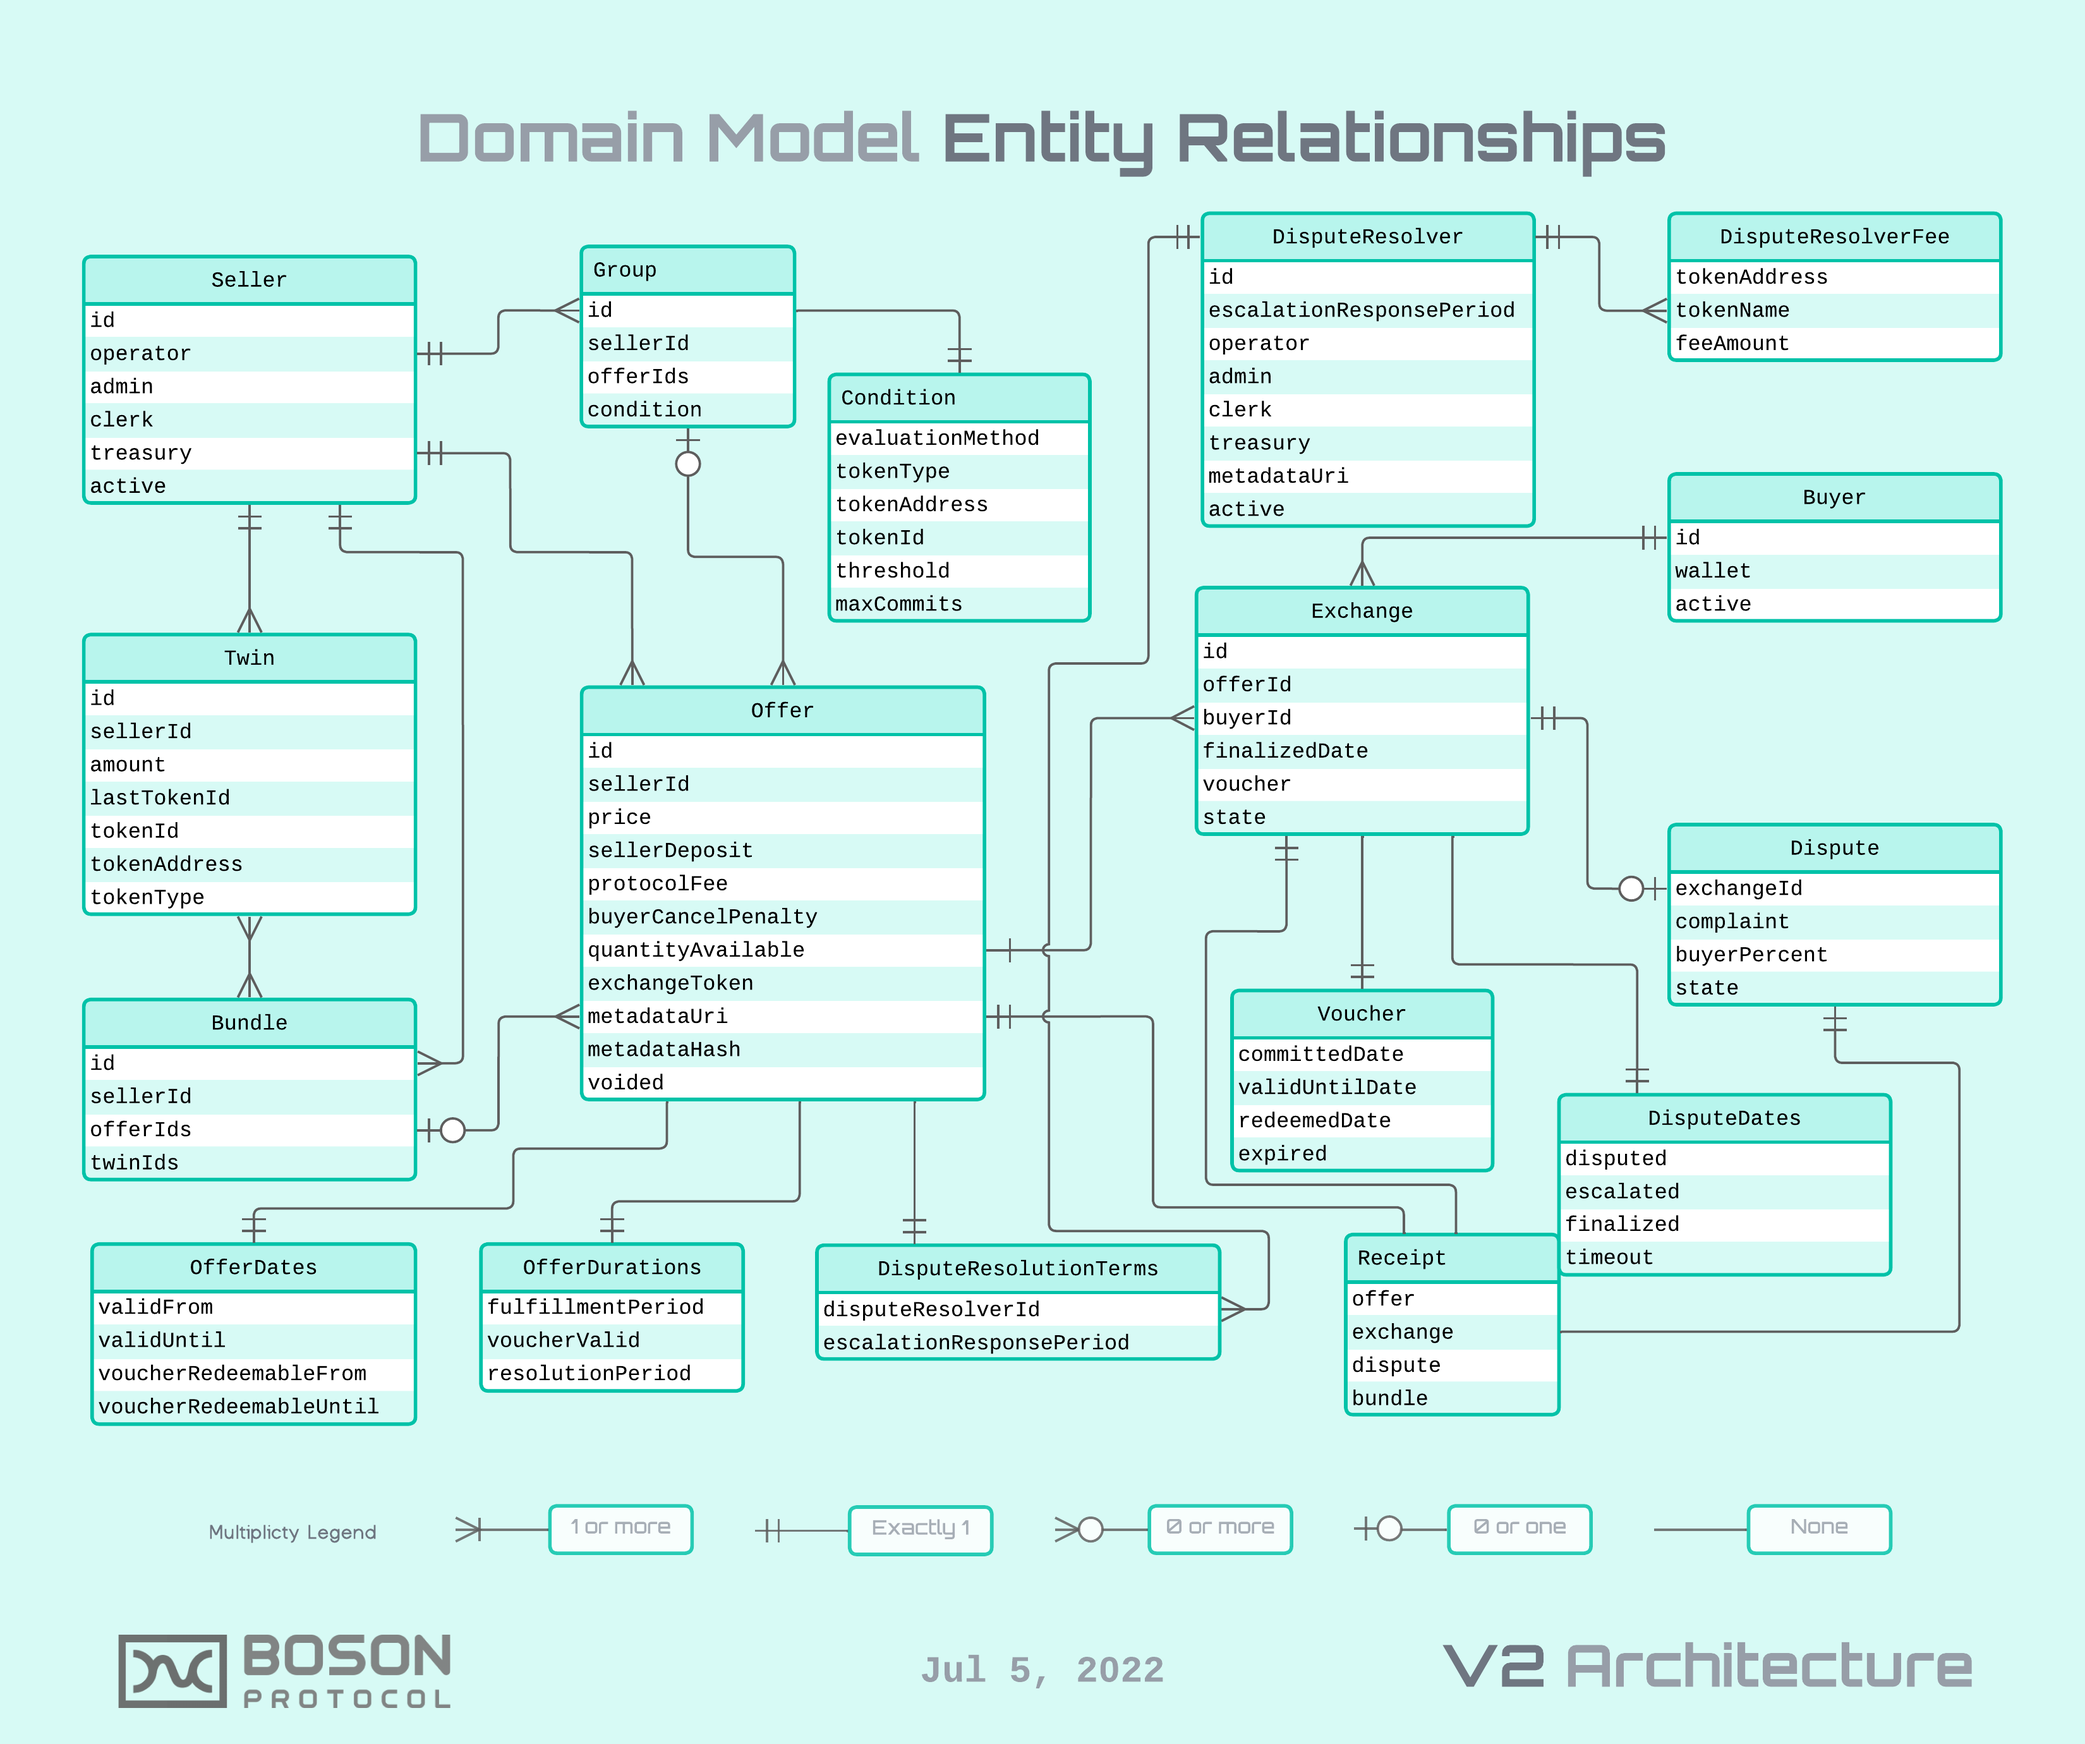
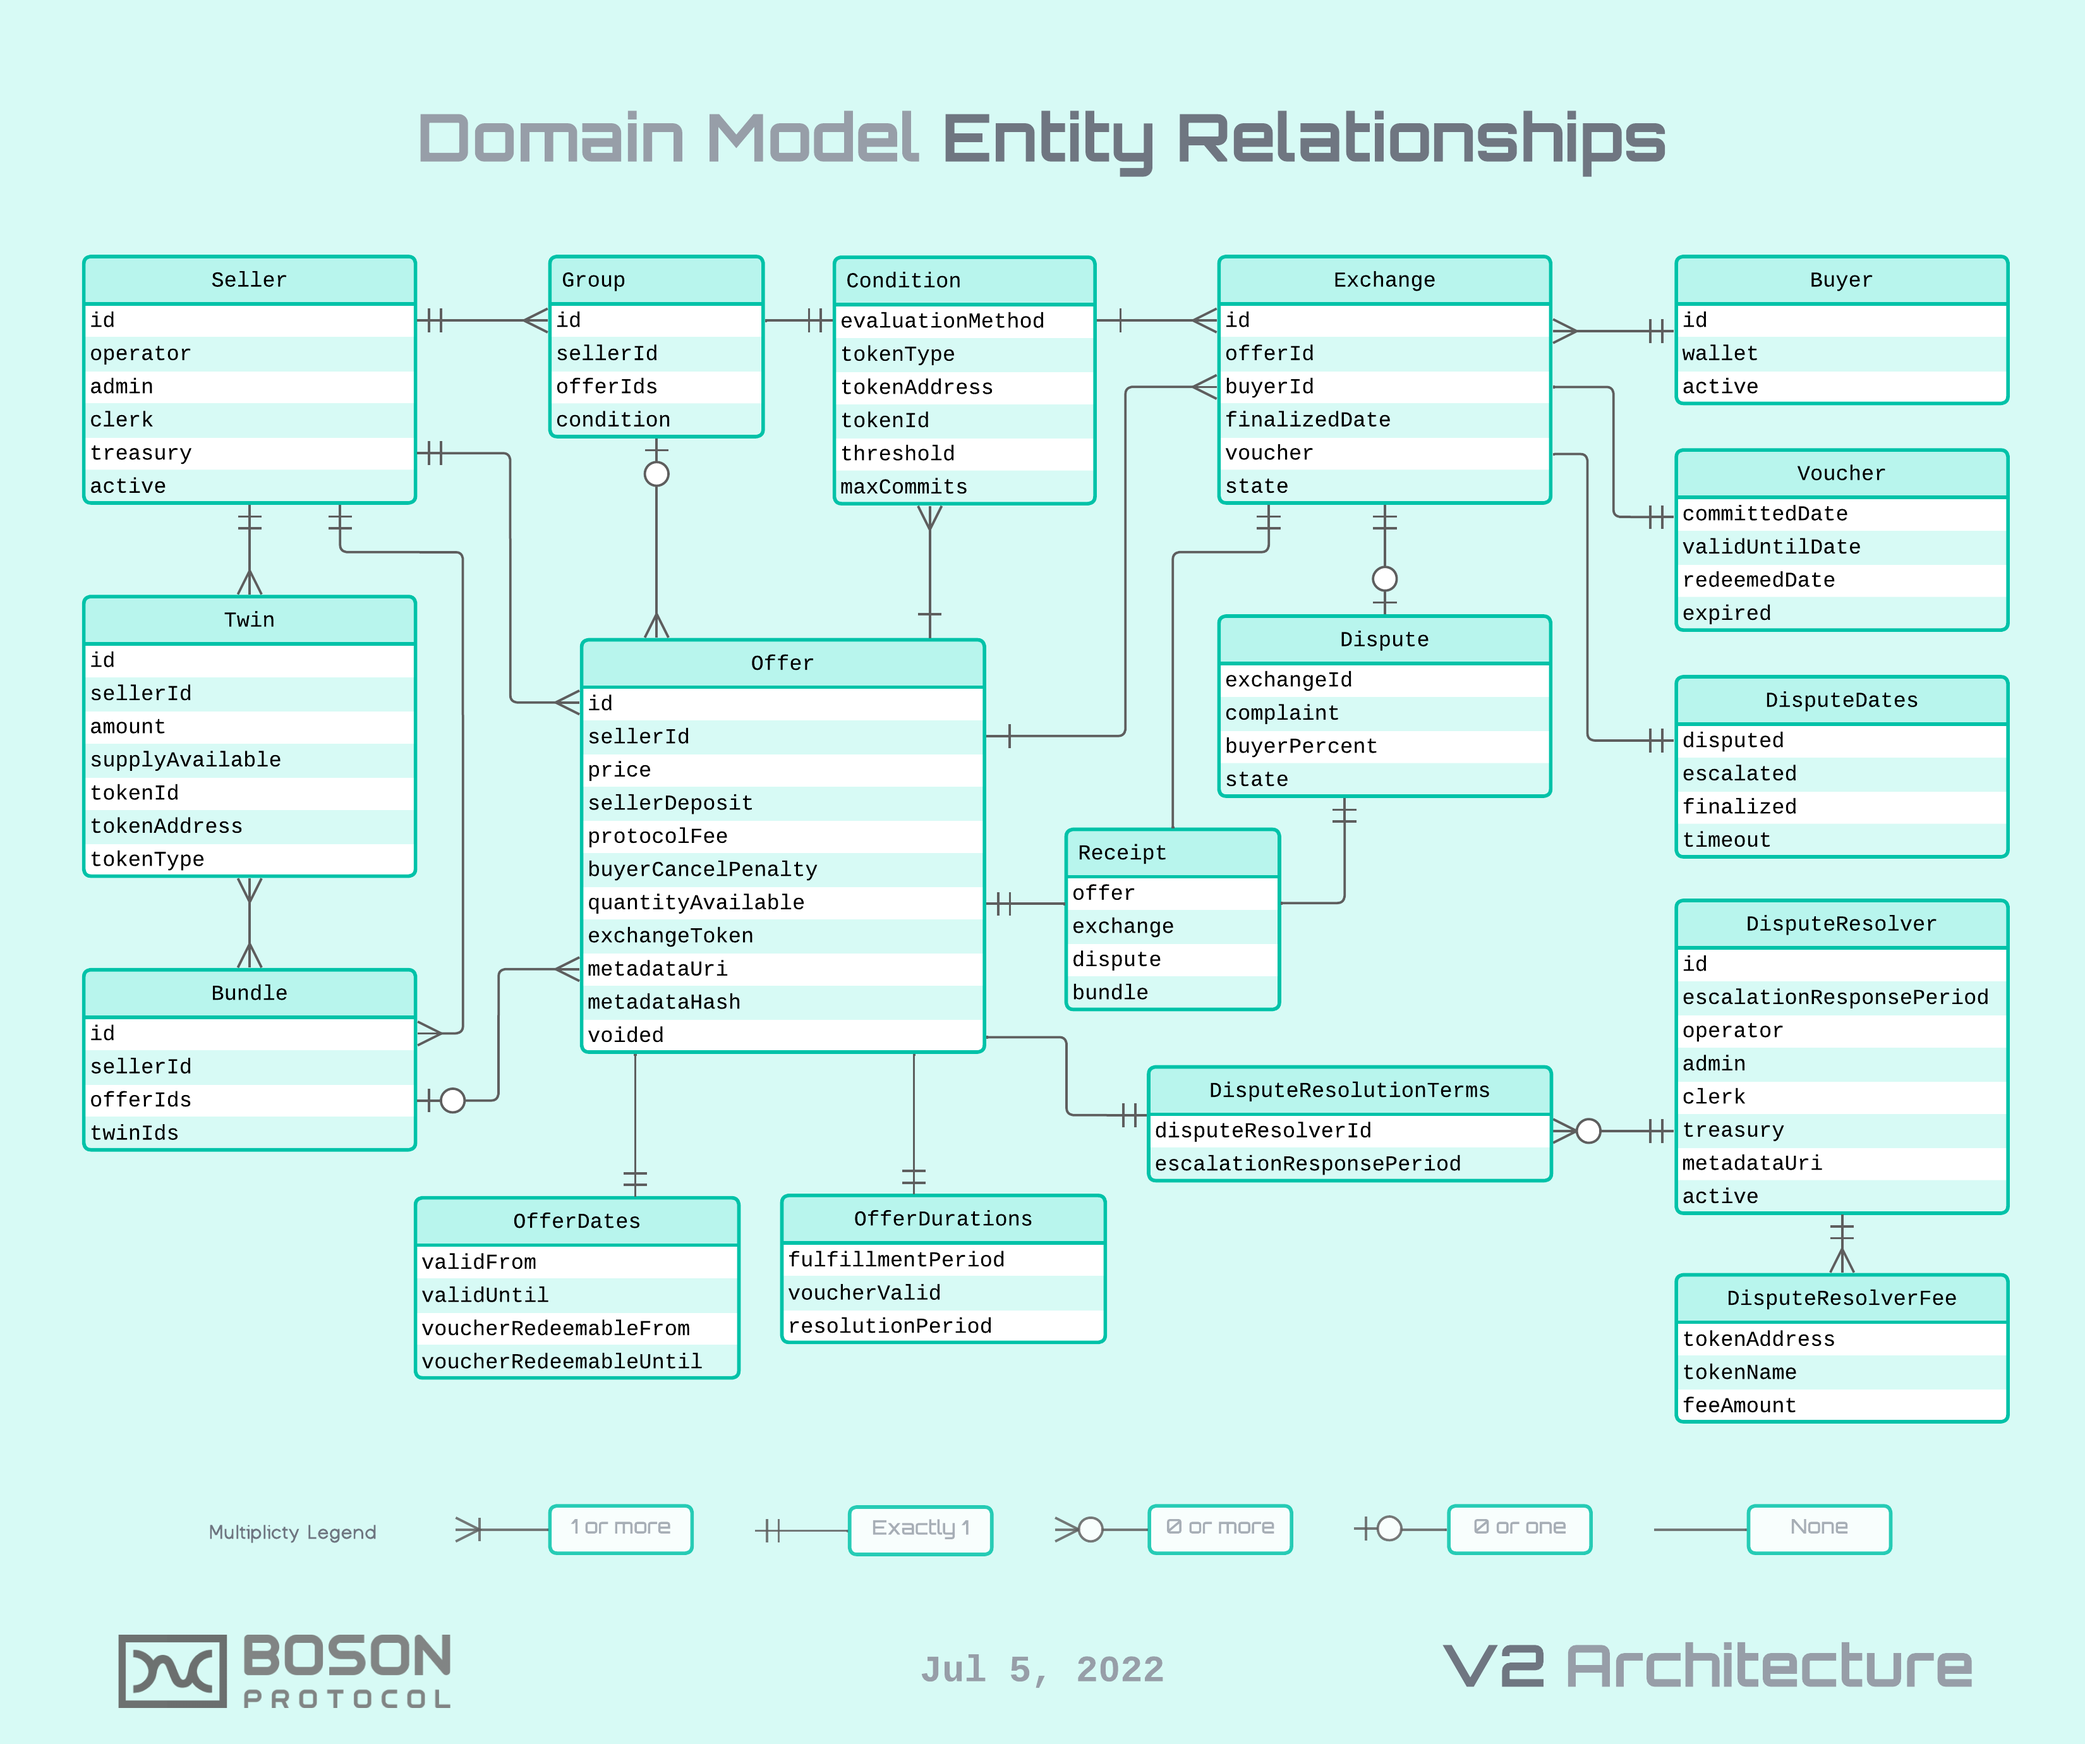
Replace lastTokenId to supplyAvailable

diff --git a/scripts/domain/Twin.js b/scripts/domain/Twin.js
@@ -13,18 +13,18 @@ class Twin {
             uint256 id;
             uint256 sellerId;
             uint256 amount; // ERC-1155 / ERC-20
-            uint256 lastTokenId; // ERC-721 (the last token id of the ERC-721 available range)
+            uint256 supplyAvailable; // ERC-721 (the last token id of the ERC-721 available range)
             uint256 tokenId; // ERC-1155 / ERC-721 (must be initialized with the initial pointer position of the ERC-721 ids available range)
             address tokenAddress;  // all
             TokenType tokenType
         }
     */
 
-  constructor(id, sellerId, amount, lastTokenId, tokenId, tokenAddress, tokenType) {
+  constructor(id, sellerId, amount, supplyAvailable, tokenId, tokenAddress, tokenType) {
     this.id = id;
     this.sellerId = sellerId;
     this.amount = amount;
-    this.lastTokenId = lastTokenId;
+    this.supplyAvailable = supplyAvailable;
     this.tokenId = tokenId;
     this.tokenAddress = tokenAddress;
     this.tokenType = tokenType;
@@ -36,8 +36,8 @@ class Twin {
    * @returns {Twin}
    */
   static fromObject(o) {
-    const { id, sellerId, amount, lastTokenId, tokenId, tokenAddress, tokenType } = o;
-    return new Twin(id, sellerId, amount, lastTokenId, tokenId, tokenAddress, tokenType);
+    const { id, sellerId, amount, supplyAvailable, tokenId, tokenAddress, tokenType } = o;
+    return new Twin(id, sellerId, amount, supplyAvailable, tokenId, tokenAddress, tokenType);
   }
 
   /**
@@ -46,16 +46,16 @@ class Twin {
    * @returns {*}
    */
   static fromStruct(struct) {
-    let id, sellerId, amount, lastTokenId, tokenId, tokenAddress, tokenType;
+    let id, sellerId, amount, supplyAvailable, tokenId, tokenAddress, tokenType;
 
     // destructure struct
-    [id, sellerId, amount, lastTokenId, tokenId, tokenAddress, tokenType] = struct;
+    [id, sellerId, amount, supplyAvailable, tokenId, tokenAddress, tokenType] = struct;
 
     return Twin.fromObject({
       id: id.toString(),
       sellerId: sellerId.toString(),
       amount: amount.toString(),
-      lastTokenId: lastTokenId ? lastTokenId.toString() : "",
+      supplyAvailable: supplyAvailable ? supplyAvailable.toString() : "",
       tokenId: tokenId ? tokenId.toString() : "",
       tokenAddress,
       tokenType,
@@ -83,7 +83,7 @@ class Twin {
    * @returns {string}
    */
   toStruct() {
-    return [this.id, this.sellerId, this.amount, this.lastTokenId, this.tokenId, this.tokenAddress, this.tokenType];
+    return [this.id, this.sellerId, this.amount, this.supplyAvailable, this.tokenId, this.tokenAddress, this.tokenType];
   }
 
   /**
@@ -137,17 +137,17 @@ class Twin {
   }
 
   /**
-   * Is this Twin instance's lastTokenId field valid?
+   * Is this Twin instance's supplyAvailable field valid?
    * Must be an empty string or a string representation of a big number
    * @returns {boolean}
    */
-  lastTokenIdIsValid() {
+  supplyAvailableIsValid() {
     let valid = false;
-    let { lastTokenId } = this;
+    let { supplyAvailable } = this;
     try {
       valid =
-        typeof lastTokenId === "string" &&
-        (lastTokenId === "" || typeof ethers.BigNumber.from(lastTokenId) === "object");
+        typeof supplyAvailable === "string" &&
+        (supplyAvailable === "" || typeof ethers.BigNumber.from(supplyAvailable) === "object");
     } catch (e) {}
     return valid;
   }
@@ -202,7 +202,7 @@ class Twin {
       this.idIsValid() &&
       this.sellerIdIsValid() &&
       this.amountIsValid() &&
-      this.lastTokenIdIsValid() &&
+      this.supplyAvailableIsValid() &&
       this.tokenIdIsValid() &&
       this.tokenAddressIsValid() &&
       this.tokenTypeIsValid()

diff --git a/test/domain/TwinTest.js b/test/domain/TwinTest.js
@@ -33,7 +33,7 @@ describe("Twin", function () {
       expect(twin.idIsValid()).is.true;
       expect(twin.sellerIdIsValid()).is.true;
       expect(twin.amountIsValid()).is.true;
-      expect(twin.lastTokenIdIsValid()).is.true;
+      expect(twin.supplyAvailableIsValid()).is.true;
       expect(twin.tokenIdIsValid()).is.true;
       expect(twin.tokenAddressIsValid()).is.true;
       expect(twin.tokenTypeIsValid()).is.true;
@@ -121,30 +121,30 @@ describe("Twin", function () {
       expect(twin.isValid()).is.true;
     });
 
-    it("Always present, lastTokenId must be the array containing string representation of a BigNumber", async function () {
+    it("Always present, supplyAvailable must be the array containing string representation of a BigNumber", async function () {
       // Invalid field value
-      twin.lastTokenId = "zedzdeadbaby";
-      expect(twin.lastTokenIdIsValid()).is.false;
+      twin.supplyAvailable = "zedzdeadbaby";
+      expect(twin.supplyAvailableIsValid()).is.false;
       expect(twin.isValid()).is.false;
 
       // Invalid field value
-      twin.lastTokenId = new Date();
-      expect(twin.lastTokenIdIsValid()).is.false;
+      twin.supplyAvailable = new Date();
+      expect(twin.supplyAvailableIsValid()).is.false;
       expect(twin.isValid()).is.false;
 
       // Invalid field value
-      twin.lastTokenId = 12;
-      expect(twin.lastTokenIdIsValid()).is.false;
+      twin.supplyAvailable = 12;
+      expect(twin.supplyAvailableIsValid()).is.false;
       expect(twin.isValid()).is.false;
 
       // Invalid field value
-      twin.lastTokenId = ["1", "2"];
-      expect(twin.lastTokenIdIsValid()).is.false;
+      twin.supplyAvailable = ["1", "2"];
+      expect(twin.supplyAvailableIsValid()).is.false;
       expect(twin.isValid()).is.false;
 
       // Valid field value
-      twin.lastTokenId = "126";
-      expect(twin.lastTokenIdIsValid()).is.true;
+      twin.supplyAvailable = "126";
+      expect(twin.supplyAvailableIsValid()).is.true;
       expect(twin.isValid()).is.true;
     });
 
@@ -246,21 +246,21 @@ describe("Twin", function () {
       twin = mockTwin(tokenAddress);
       expect(twin.isValid()).is.true;
 
-      const { id, sellerId, amount, lastTokenId, tokenId, tokenType } = twin;
+      const { id, sellerId, amount, supplyAvailable, tokenId, tokenType } = twin;
 
       // Get plain object
       object = {
         id,
         sellerId,
         amount,
-        lastTokenId,
+        supplyAvailable,
         tokenId,
         tokenAddress,
         tokenType,
       };
 
       // Struct representation
-      struct = [id, sellerId, amount, lastTokenId, tokenId, tokenAddress, tokenType];
+      struct = [id, sellerId, amount, supplyAvailable, tokenId, tokenAddress, tokenType];
     });
 
     context("👉 Static", async function () {

diff --git a/test/protocol/TwinHandlerTest.js b/test/protocol/TwinHandlerTest.js
@@ -298,19 +298,19 @@ describe("IBosonTwinHandler", function () {
           );
         });
 
-        it("lastTokenId is lower than tokenId", async function () {
+        it("supplyAvailable is zero", async function () {
           // Mint a token and approve twinHandler contract to transfer it
           await foreign721.connect(operator).mint(twin.tokenId, "1");
           await foreign721.connect(operator).setApprovalForAll(twinHandler.address, true);
 
-          twin.lastTokenId = "0";
+          twin.supplyAvailable = "0";
           twin.amount = "0";
           twin.tokenId = "1";
           twin.tokenAddress = foreign721.address;
           twin.tokenType = TokenType.NonFungibleToken;
 
           await expect(twinHandler.connect(operator).createTwin(twin)).to.be.revertedWith(
-            RevertReasons.ERC721_INVALID_RANGE
+            RevertReasons.INVALID_SUPPLY_AVAILABLE
           );
         });
 
@@ -346,37 +346,6 @@ describe("IBosonTwinHandler", function () {
           // Mint a token and approve twinHandler contract to transfer it
           await foreign721.connect(operator).mint(twin.tokenId, "1");
           await foreign721.connect(operator).setApprovalForAll(twinHandler.address, true);
-
-          await expect(twinHandler.connect(operator).createTwin(twin)).to.be.revertedWith(
-            RevertReasons.INVALID_TWIN_PROPERTY
-          );
-        });
-
-        it("lastTokenId should be zero if token type is ERC20", async function () {
-          twin.tokenAddress = bosonToken.address;
-          twin.tokenType = TokenType.FungibleToken;
-          twin.amount = "1";
-          twin.tokenId = "1";
-          twin.lastTokenId = "1";
-
-          // Approving the twinHandler contract to transfer seller's tokens
-          await bosonToken.connect(operator).approve(twinHandler.address, 1);
-
-          await expect(twinHandler.connect(operator).createTwin(twin)).to.be.revertedWith(
-            RevertReasons.INVALID_TWIN_PROPERTY
-          );
-        });
-
-        it("lastTokenId should be zero if token type is ERC1155", async function () {
-          twin.tokenAddress = foreign1155.address;
-          twin.tokenType = TokenType.MultiToken;
-          twin.amount = "1";
-          twin.tokenId = "1";
-          twin.lastTokenId = "1";
-
-          // Mint a token and approve twinHandler contract to transfer it
-          await foreign1155.connect(operator).mint(twin.tokenId, "1");
-          await foreign1155.connect(operator).setApprovalForAll(twinHandler.address, true);
 
           await expect(twinHandler.connect(operator).createTwin(twin)).to.be.revertedWith(
             RevertReasons.INVALID_TWIN_PROPERTY

diff --git a/test/protocol/ExchangeHandlerTest.js b/test/protocol/ExchangeHandlerTest.js
@@ -30,7 +30,7 @@ const { oneWeek, oneMonth } = require("../utils/constants");
 /**
  *  Test the Boson Exchange Handler interface
  */
-describe.only("IBosonExchangeHandler", function () {
+describe("IBosonExchangeHandler", function () {
   // Common vars
   let InterfaceIds;
   let deployer,
@@ -836,12 +836,14 @@ describe.only("IBosonExchangeHandler", function () {
         // Create an ERC20 twin
         twin20 = mockTwin(foreign20.address);
         twin20.amount = "1";
+        twin20.supplyAvailable = "1";
         expect(twin20.isValid()).is.true;
 
         // Create an ERC721 twin
         twin721 = mockTwin(foreign721.address, TokenType.NonFungibleToken);
         twin721.id = "2";
         twin721.amount = "0";
+        twin721.supplyAvailable = "1";
 
         expect(twin721.isValid()).is.true;
 
@@ -850,6 +852,7 @@ describe.only("IBosonExchangeHandler", function () {
         twin1155.id = "3";
         twin1155.tokenId = "1";
         twin1155.amount = "1";
+        twin1155.supplyAvailable = "1";
 
         expect(twin1155.isValid()).is.true;
 
@@ -930,7 +933,7 @@ describe.only("IBosonExchangeHandler", function () {
           expect(owner).to.equal(buyer.address);
         });
 
-        it("should not revert if current tokenId is greater than lastTokenId", async function () {
+        it("should not revert if supplyAvailable is 0", async function () {
           // Deposit seller funds so the second commit will not revert for Insufficient available funds";
           await fundsHandler
             .connect(operator)

diff --git a/test/utils/mock.js b/test/utils/mock.js
@@ -78,8 +78,8 @@ function mockTwin(tokenAddress, tokenType) {
   const sellerId = "1";
   const amount = "500";
   const tokenId = "0";
-  const lastTokenId = "0";
-  return new Twin(id, sellerId, amount, lastTokenId, tokenId, tokenAddress, tokenType);
+  const supplyAvailable = "0";
+  return new Twin(id, sellerId, amount, supplyAvailable, tokenId, tokenAddress, tokenType);
 }
 
 function mockDisputeResolver(operatorAddress, adminAddress, clerkAddress, treasuryAddress, active) {

diff --git a/scripts/config/revert-reasons.js b/scripts/config/revert-reasons.js
@@ -63,7 +63,7 @@ exports.RevertReasons = {
   TWIN_TRANSFER_FAILED: "Twin could not be transferred",
   UNSUPPORTED_TOKEN: "Unsupported token",
   TWIN_HAS_BUNDLES: "Twin has bundles",
-  ERC721_INVALID_RANGE: "lastTokenId must be equal or greater than tokenId",
+  INVALID_SUPPLY_AVAILABLE: "supplyAvailable can't be zero",
   INVALID_AMOUNT: "Amount must be greater than zero if token is ERC20 or ERC1155",
   INVALID_TWIN_PROPERTY: "Invalid property for selected token type",
 
